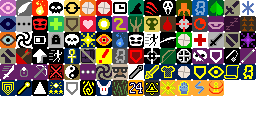
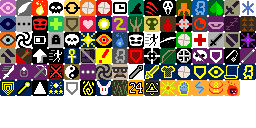
活活焚火

Changed region(s): [[0.875, 0.625, 0.9375, 0.75]]

diff --git a/core/src/main/java/com/shatteredpixel/shatteredpixeldungeon/runes/spells/LivingFire.java b/core/src/main/java/com/shatteredpixel/shatteredpixeldungeon/runes/spells/LivingFire.java
@@ -1,0 +1,145 @@
+package com.shatteredpixel.shatteredpixeldungeon.runes.spells;
+
+import com.shatteredpixel.shatteredpixeldungeon.Dungeon;
+import com.shatteredpixel.shatteredpixeldungeon.actors.Actor;
+import com.shatteredpixel.shatteredpixeldungeon.actors.Char;
+import com.shatteredpixel.shatteredpixeldungeon.actors.buffs.Buff;
+import com.shatteredpixel.shatteredpixeldungeon.actors.buffs.Burning;
+import com.shatteredpixel.shatteredpixeldungeon.actors.hero.Hero;
+import com.shatteredpixel.shatteredpixeldungeon.actors.mobs.Mob;
+import com.shatteredpixel.shatteredpixeldungeon.items.implement.Implement;
+import com.shatteredpixel.shatteredpixeldungeon.messages.Messages;
+import com.shatteredpixel.shatteredpixeldungeon.ui.BuffIndicator;
+import com.shatteredpixel.shatteredpixeldungeon.utils.GLog;
+import com.watabou.utils.Bundle;
+
+public class LivingFire extends TargetedSpell{
+    public static LivingFire INSTANCE = new LivingFire();
+
+    {
+        type = TYPE.ENERGETIC;
+        icon = LIVING_FIRE;
+        tier = 3;
+    }
+
+    @Override
+    protected void onTargetSelected(Implement implement, Hero hero, Integer target) {
+        if (target == null){
+            return;
+        }
+
+        if (Actor.findChar(target)==null || !Dungeon.level.heroFOV[target]) {
+            GLog.w(Messages.get(this, "invalid_target"));
+        } else {
+            Buff.affect(Actor.findChar(target), LivingFireBuff.class).extend(LivingFireBuff.DURATION * implement.powerMultiplier(hero, this));
+
+            hero.sprite.operate(target);
+            onSpellCast(implement, hero);
+            hero.spendAndNext(implement.delay(hero, this));
+        }
+    }
+
+    public static class LivingFireBuff extends Buff {
+        {
+            type = buffType.NEGATIVE;
+            announced = true;
+        }
+
+        private static final float DURATION = 30f;
+        private static final int DIST = 6;
+
+        private float left = 0f;
+
+        private static final String LEFT	= "left";
+
+        @Override
+        public void storeInBundle( Bundle bundle ) {
+            super.storeInBundle( bundle );
+            bundle.put( LEFT, left );
+        }
+
+        @Override
+        public void restoreFromBundle( Bundle bundle ) {
+            super.restoreFromBundle(bundle);
+            left = bundle.getFloat( LEFT );
+        }
+
+        public void setLeft(float left) {
+            if (left>this.left) this.left = left;
+        }
+
+        public float getLeft() {
+            return left;
+        }
+
+        public void extend(float extension) {
+            left += extension;
+        }
+
+        @Override
+        public boolean attachTo(Char target) {
+            Buff.affect(target, Burning.class).reignite(target, 2f);
+
+            return super.attachTo(target);
+        }
+
+        @Override
+        public boolean act() {
+            if (left<=0f || !target.isAlive() || target.isImmune(Burning.class))
+                detach();
+            else {
+                Buff.affect(target, Burning.class).reignite(target, 2f);
+                spend( TICK );
+                left -= TICK;
+            }
+
+            return super.act();
+        }
+
+        @Override
+        public void detach() {
+            if (left>0f) {
+                Char closest = null;
+                for (Mob mob : Dungeon.level.mobs) {
+                    if (mob != target
+                            && mob.alignment == Char.Alignment.ENEMY
+                            && Dungeon.level.distance(mob.pos, target.pos) <= DIST
+                            && !mob.isImmune(Burning.class)) {
+                        if (closest == null || Dungeon.level.distance(closest.pos, target.pos) > Dungeon.level.distance(mob.pos, target.pos)){
+                            closest = mob;
+                        }
+                    }
+                }
+                if (closest!=null) {
+                    Buff.affect(closest, LivingFireBuff.class).extend(left);
+                }
+            }
+
+            super.detach();
+        }
+
+        @Override
+        public int icon() {
+            return BuffIndicator.LIVINGFIRE;
+        }
+
+        @Override
+        public float iconFadePercent() {
+            return Math.max(0, (DURATION - left) / DURATION);
+        }
+
+        @Override
+        public String iconTextDisplay() {
+            return Integer.toString((int)left);
+        }
+
+        @Override
+        public String desc() {
+            return Messages.get(this, "desc", dispTurns(left));
+        }
+
+        public float left(){
+            return left;
+        }
+    }
+}

diff --git a/core/src/main/java/com/shatteredpixel/shatteredpixeldungeon/actors/hero/spells/MnemonicPrayer.java b/core/src/main/java/com/shatteredpixel/shatteredpixeldungeon/actors/hero/spells/MnemonicPrayer.java
@@ -58,6 +58,8 @@ import com.shatteredpixel.shatteredpixeldungeon.items.weapon.enchantments.Kineti
 import com.shatteredpixel.shatteredpixeldungeon.mechanics.Ballistica;
 import com.shatteredpixel.shatteredpixeldungeon.messages.Messages;
 import com.shatteredpixel.shatteredpixeldungeon.plants.Sungrass;
+import com.shatteredpixel.shatteredpixeldungeon.runes.spells.FireRing;
+import com.shatteredpixel.shatteredpixeldungeon.runes.spells.LivingFire;
 import com.shatteredpixel.shatteredpixeldungeon.ui.BuffIndicator;
 import com.shatteredpixel.shatteredpixeldungeon.ui.HeroIcon;
 import com.shatteredpixel.shatteredpixeldungeon.ui.QuickSlotButton;
@@ -159,6 +161,7 @@ public class MnemonicPrayer extends TargetedClericSpell {
 				else if (b instanceof ShieldBuff)               ((ShieldBuff) b).delay(extension);
 				else if (b instanceof Kinetic.ConservedDamage)  ((Kinetic.ConservedDamage) b).delay(extension);
 				else if (b instanceof Sungrass.Health)          ((Sungrass.Health) b).boost((int) extension);
+				else if (b instanceof FireRing.FireRingBuff)    ((FireRing.FireRingBuff) b).setLeft(((FireRing.FireRingBuff) b).left + (int)extension);
 
 				b.mnemonicExtended = true;
 
@@ -188,6 +191,7 @@ public class MnemonicPrayer extends TargetedClericSpell {
 				else if (b instanceof Ooze)         ((Ooze) b).extend( extension );
 				else if (b instanceof Poison)       ((Poison) b).extend( extension );
 				else if (b instanceof Viscosity.DeferedDamage)  ((Viscosity.DeferedDamage) b).extend( extension );
+				else if (b instanceof LivingFire.LivingFireBuff)    ((LivingFire.LivingFireBuff) b).extend(extension);
 
 				b.mnemonicExtended = true;
 

diff --git a/core/src/main/java/com/shatteredpixel/shatteredpixeldungeon/runes/spells/MnemonicPrayer.java b/core/src/main/java/com/shatteredpixel/shatteredpixeldungeon/runes/spells/MnemonicPrayer.java
@@ -155,6 +155,7 @@ public class MnemonicPrayer extends TargetedSpell{
                 else if (b instanceof Ooze)         ((Ooze) b).extend( extension );
                 else if (b instanceof Poison)       ((Poison) b).extend( extension );
                 else if (b instanceof Viscosity.DeferedDamage)  ((Viscosity.DeferedDamage) b).extend( extension );
+                else if (b instanceof LivingFire.LivingFireBuff)    ((LivingFire.LivingFireBuff) b).extend(extension);
 
                 b.mnemonicExtended = true;
 

diff --git a/core/src/main/java/com/shatteredpixel/shatteredpixeldungeon/ui/BuffIndicator.java b/core/src/main/java/com/shatteredpixel/shatteredpixeldungeon/ui/BuffIndicator.java
@@ -145,6 +145,7 @@ public class BuffIndicator extends Component {
 	public static final int ELECTRICTOUCH	= 91;
 	public static final int ELECTRICFEEL 	= 92;
 	public static final int FIRERING	= 93;
+	public static final int LIVINGFIRE	= 94;
 
 	public static final int SIZE_SMALL  = 7;
 	public static final int SIZE_LARGE  = 16;
